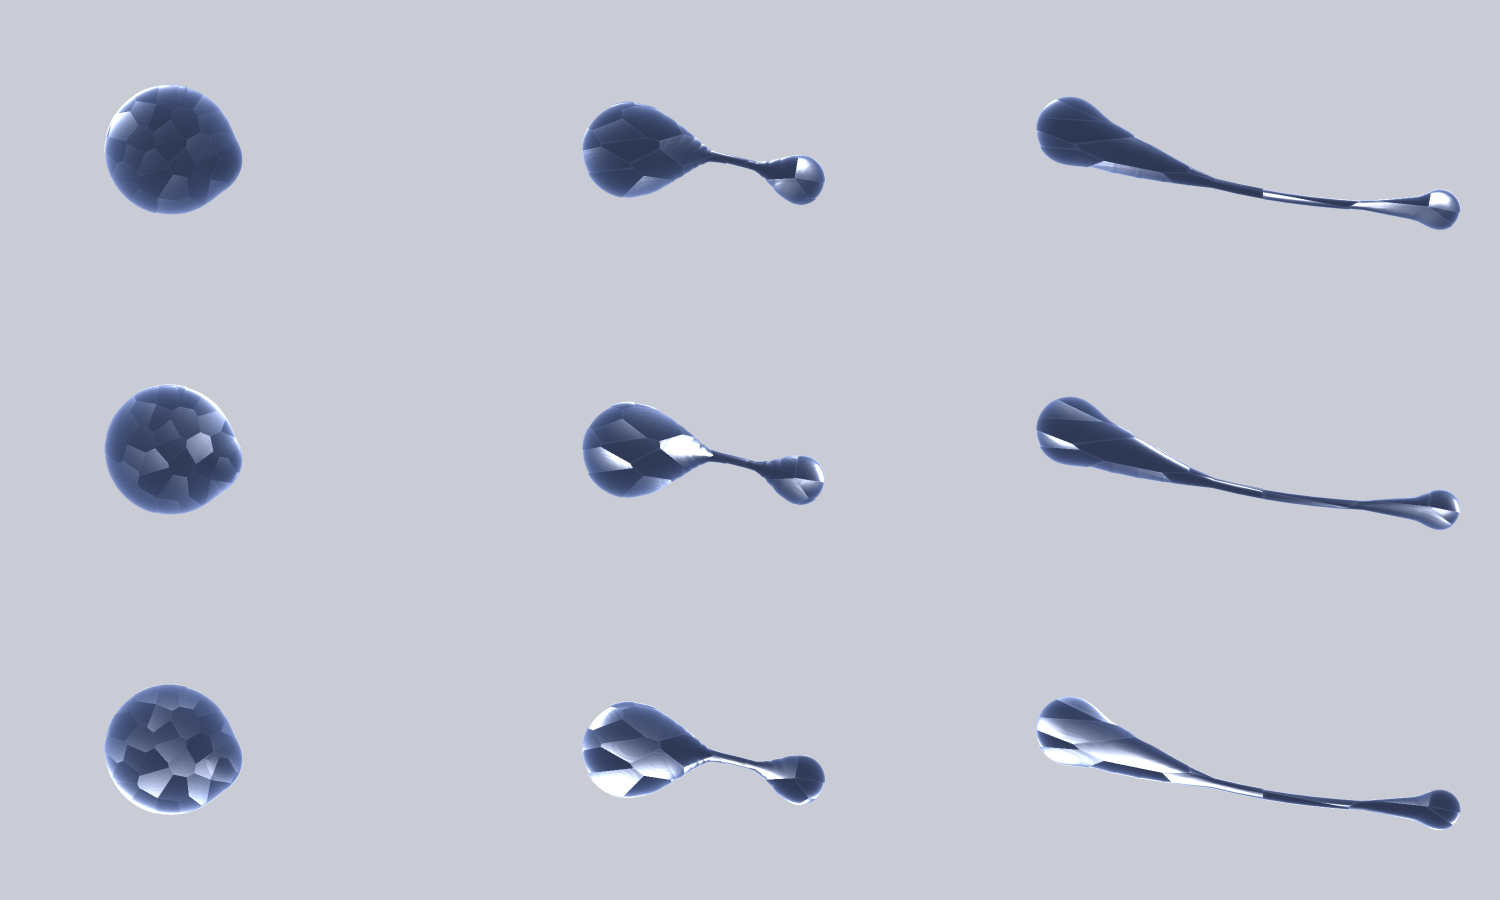
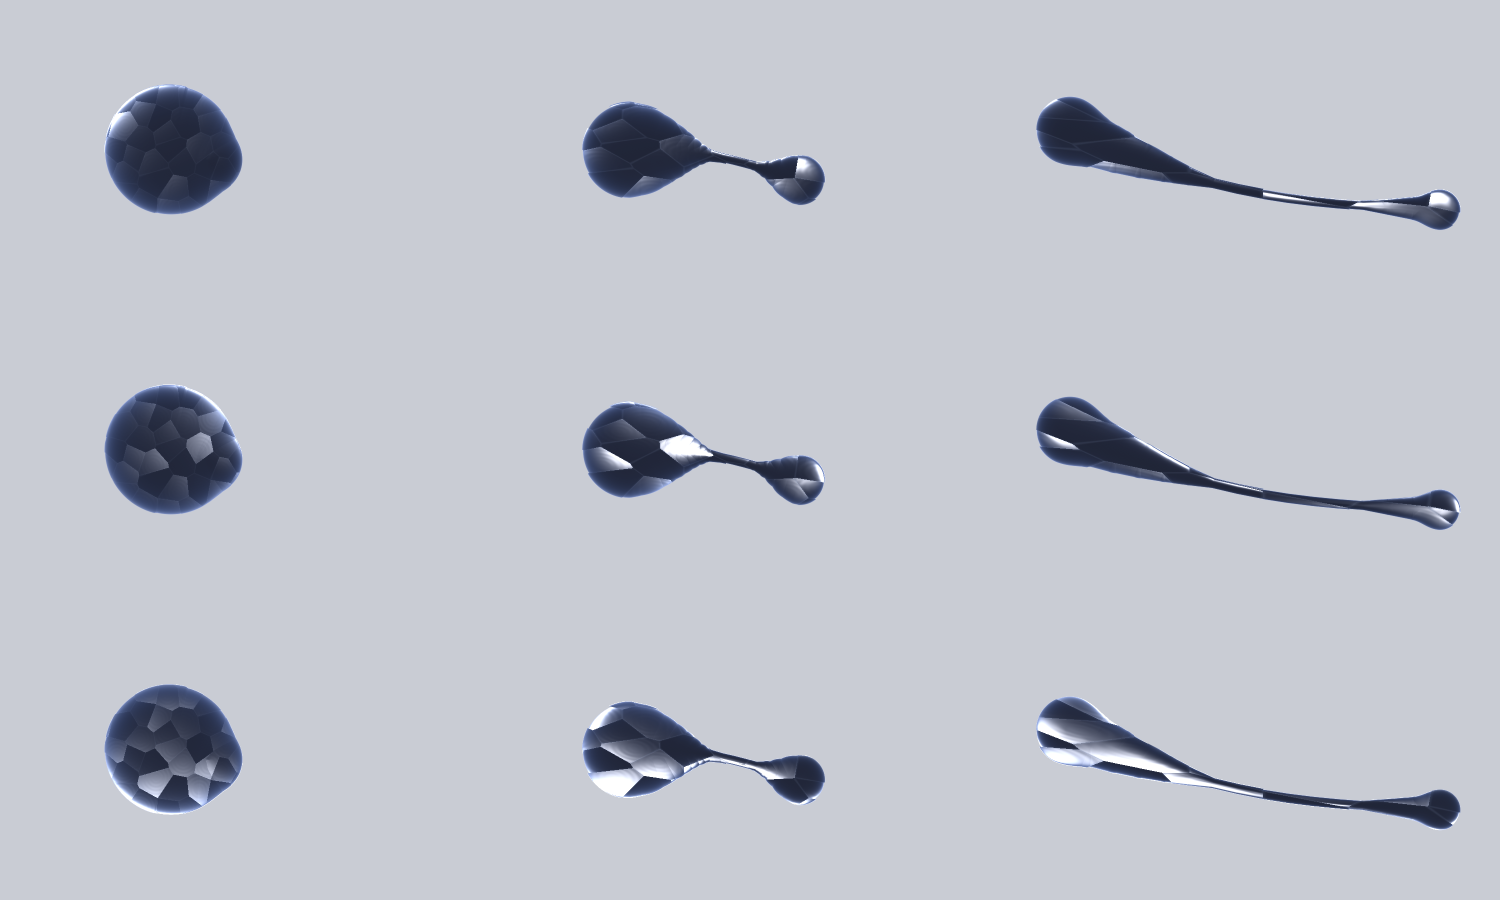
Darken obsidian body: stronger Beer absorption, lower ambient lift and rim, rim-weighted transmission
Claude-Session: https://claude.ai/code/session_01X5DnVYxLV3B4ynDkcm5kh5

diff --git a/scripts/preview/index.html b/scripts/preview/index.html
@@ -48,11 +48,11 @@ void main(){
  vec2 tilt=(cell.zw-.5)*2.; float ripple=sin(cell.x*38.+cell.z*6.2831)*.035; vec3 Nf=normalize(vec3(N.xy*.45+tilt*.45+domeS*.30+domeS*ripple,N.z)); N=normalize(mix(N,Nf,clamp(facet,0.,1.)));
  vec3 V=vec3(0,0,1); vec3 L=normalize(vec3(lightDir,.85));
  float thick=clamp(h,0.,1.);
- vec3 dark=baseC*.35+vec3(.02,.025,.04); float tAmt=clamp(trans,0.,1.)*(.55+.9*pow(1.-thick,1.35));
- vec3 beer=exp(-absorb*thick*1.1); vec3 body=mix(dark,glowC*beer,tAmt); body+=vec3(.04,.045,.06)*(.35+.65*thick);
+ vec3 dark=baseC*.35+vec3(.02,.025,.04); float tAmt=clamp(trans,0.,1.)*(.38+1.0*pow(1.-thick,1.6));
+ vec3 beer=exp(-absorb*thick*1.7); vec3 body=mix(dark,glowC*beer,tAmt); body+=vec3(.018,.02,.028)*(.35+.65*thick);
  float ndl=clamp(dot(N,L),0.,1.); float wrap=clamp(dot(N,normalize(vec3(-L.x,-L.y,.9)))*.5+.5,0.,1.);
  body*=.55+.55*ndl+.25*wrap;
- float fr=pow(1.-clamp(dot(N,V),0.,1.),2.2)*(.55+fres_); body+=fr*vec3(.85,.9,1.)*.85;
+ float fr=pow(1.-clamp(dot(N,V),0.,1.),2.2)*(.55+fres_); body+=fr*vec3(.85,.9,1.)*.6;
  vec3 H=normalize(L+V); float gloss=mix(12.,48.,clamp(shin,0.,1.)); float spec=pow(clamp(dot(N,H),0.,1.),gloss)*(.45+shin); body+=spec*1.1*(1.-.45*clamp(facet,0.,1.));
  float seam=1.-smoothstep(0.,.07,cell.y); body+=seam*facet*.12*vec3(.75,.85,1.)*(.35+.65*thick);
  float glint=smoothstep(.972,.996,dot(N,H))*(.35+.65*cell.w); body+=glint*facet*.9*vec3(1.,.97,.92)*(1.-seam);

diff --git a/Sources/Pluck/Overlay/ObsidianBlobMetal.swift b/Sources/Pluck/Overlay/ObsidianBlobMetal.swift
@@ -397,17 +397,17 @@ final class ObsidianBlobMetal {
         float thick = saturate(h);
         float3 dark = u.baseColor.xyz * 0.35 + float3(0.02, 0.025, 0.04);
         float3 glow = u.glow.xyz;
-        float tAmt = saturate(u.transmission) * (0.55 + 0.9 * pow(1.0 - thick, 1.35));
-        float3 beer = exp(-u.absorb.xyz * thick * 1.1);
+        float tAmt = saturate(u.transmission) * (0.38 + 1.0 * pow(1.0 - thick, 1.6));
+        float3 beer = exp(-u.absorb.xyz * thick * 1.7);
         float3 body = mix(dark, glow * beer, tAmt);
-        body += float3(0.04, 0.045, 0.06) * (0.35 + 0.65 * thick);
+        body += float3(0.018, 0.02, 0.028) * (0.35 + 0.65 * thick);
 
         float ndl = saturate(dot(N, L));
         float wrap = saturate(dot(N, normalize(float3(-L.x, -L.y, 0.9))) * 0.5 + 0.5);
         body *= 0.55 + 0.55 * ndl + 0.25 * wrap;
 
         float fres = pow(1.0 - saturate(dot(N, V)), 2.2) * (0.55 + u.fresnel);
-        body += fres * float3(0.85, 0.9, 1.0) * 0.85;
+        body += fres * float3(0.85, 0.9, 1.0) * 0.6;
 
         float3 H = normalize(L + V);
         float gloss = mix(12.0, 48.0, saturate(u.shininess));
